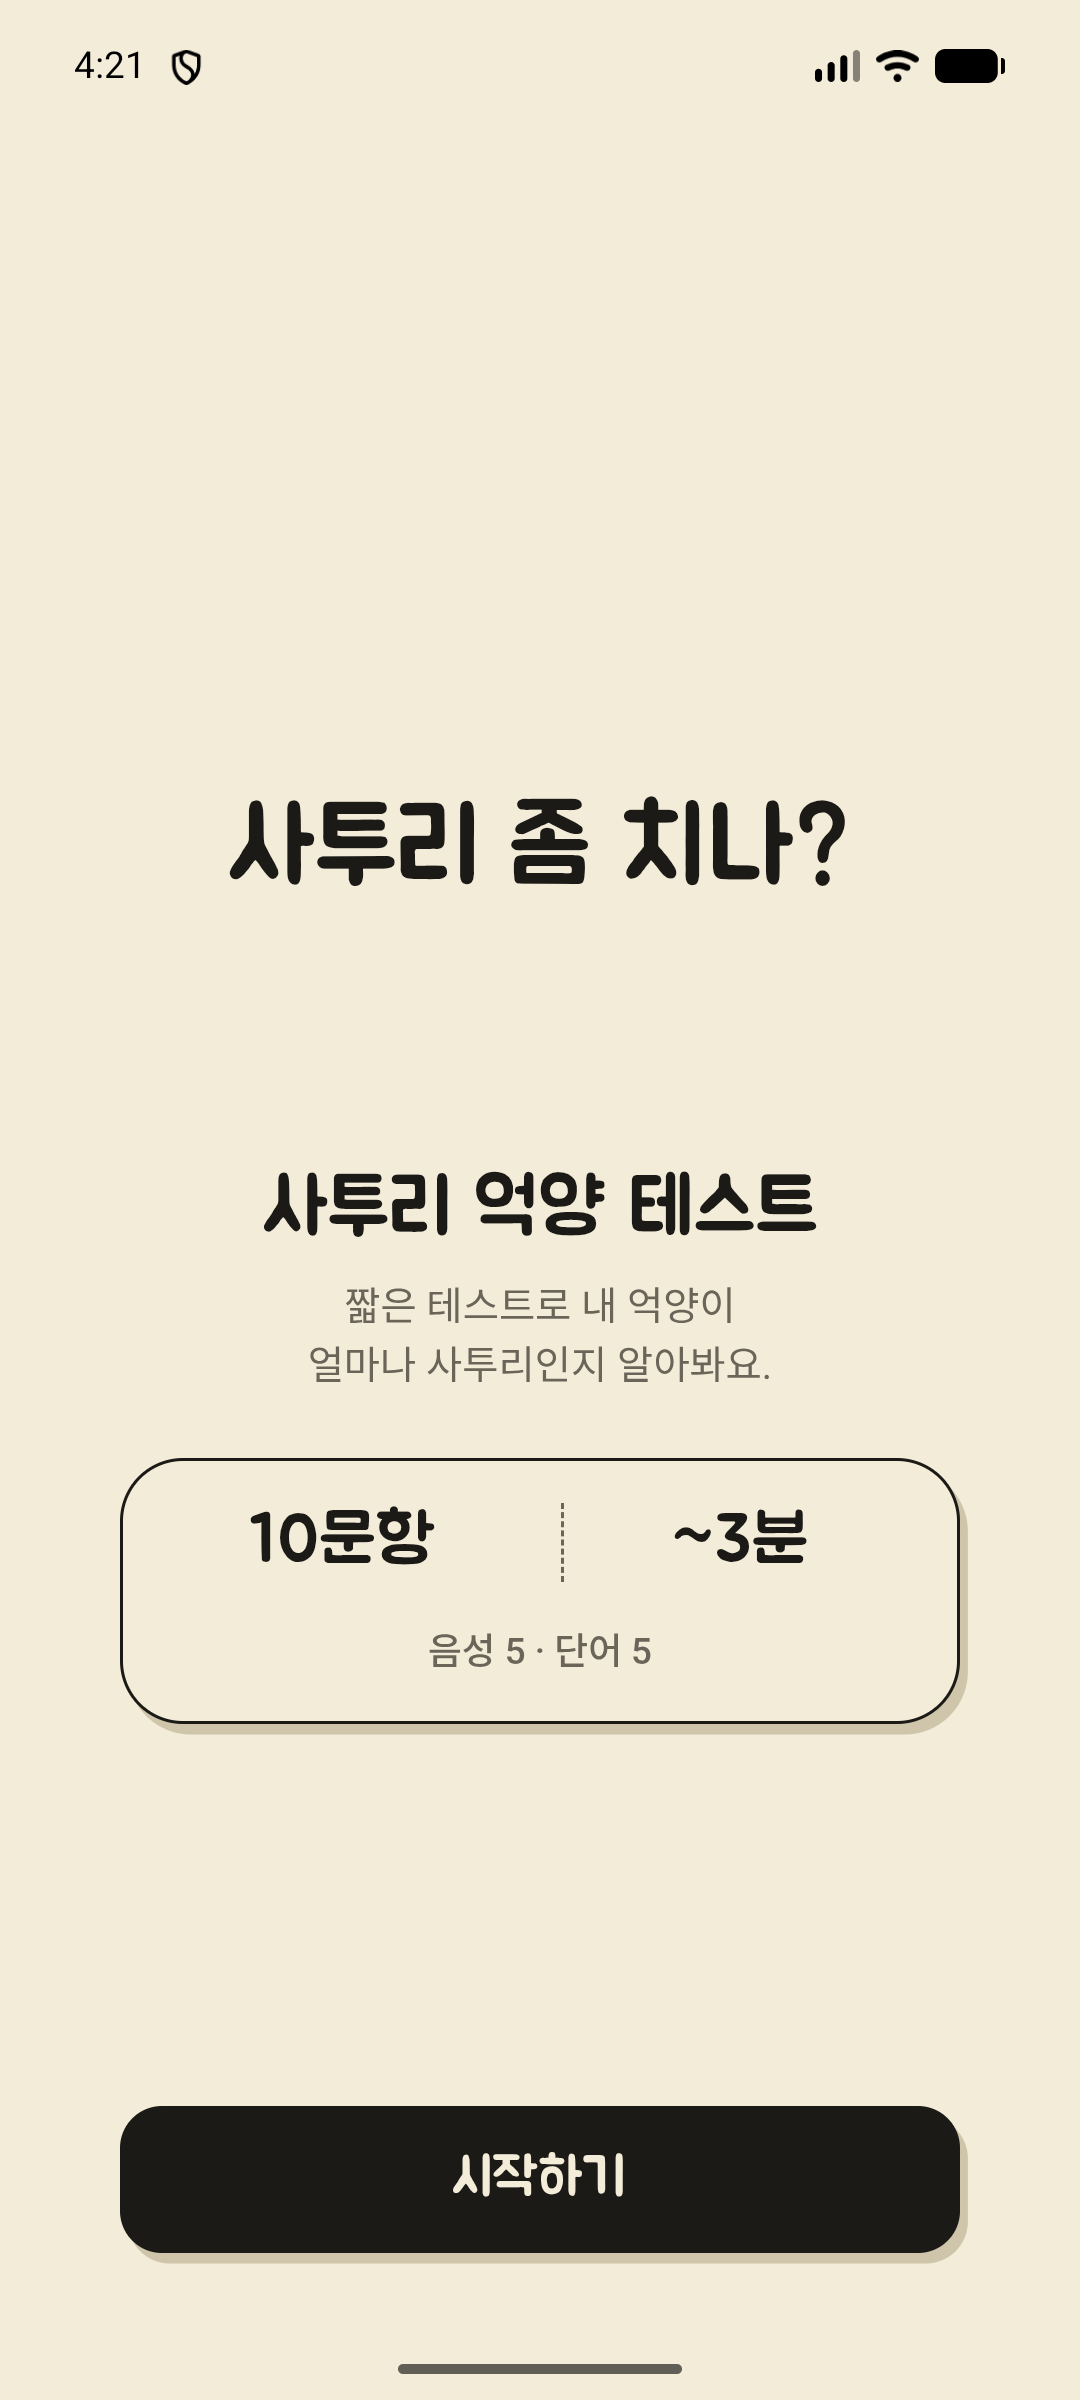
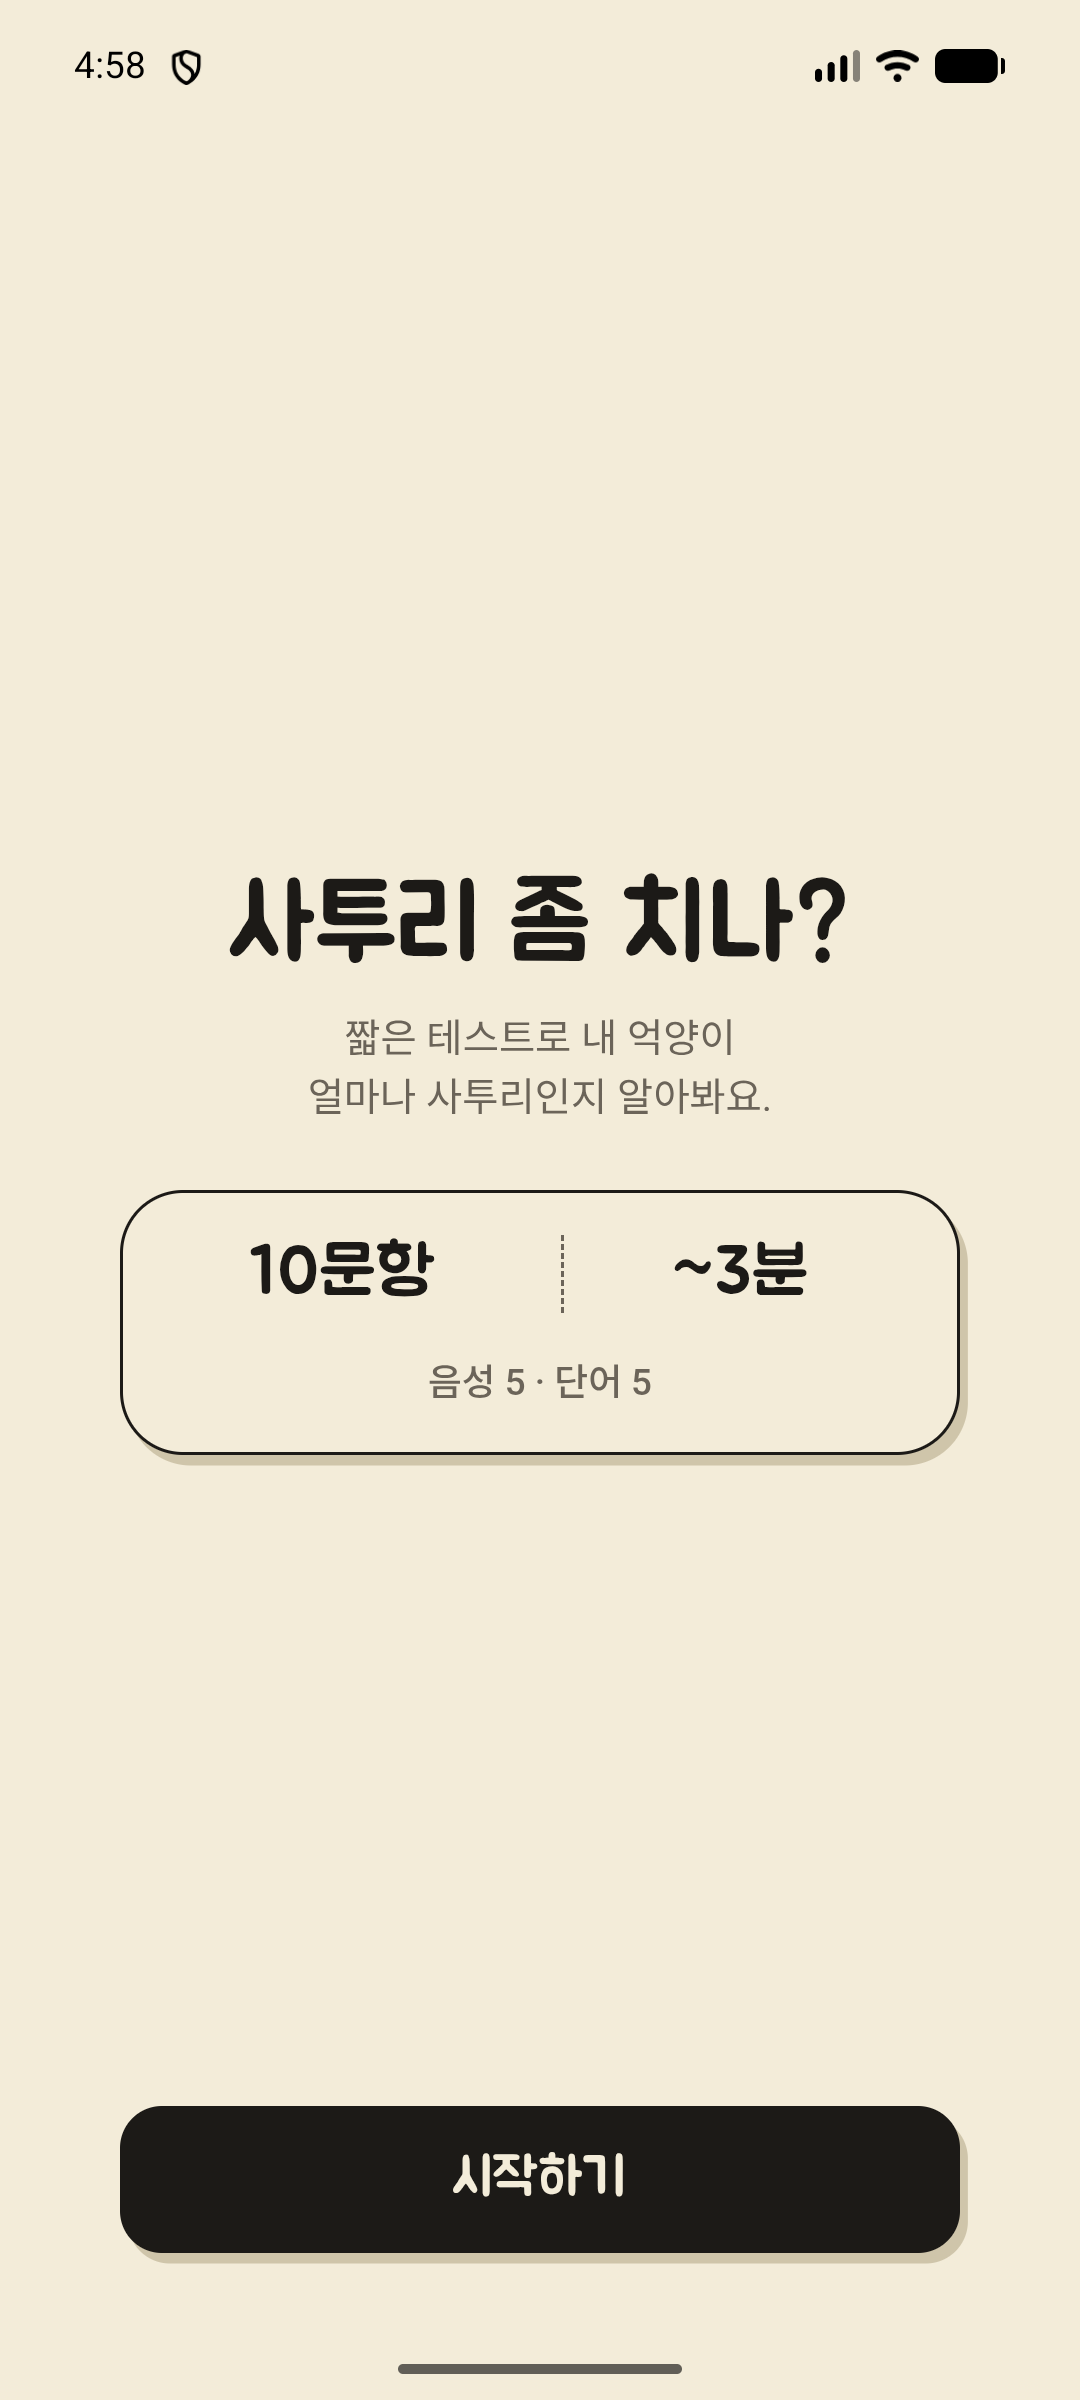
KAN-178 인트로에서 중복 제목 제거 - 텍스트 히어로가 h1 역할을 넘겨받음
- "사투리 억양 테스트" h1 삭제, TextHero에 heading 옵션 추가(인트로만 h1, 대기 화면은 기존대로 aria-hidden)
- 인트로 원본 캡처(Android·iOS) 재촬영, 프레임 재생성

Claude-Session: https://claude.ai/code/session_01Nud2Q8pYYmbEKkf6aeyY5Q

diff --git a/web/src/ui/components.css b/web/src/ui/components.css
@@ -288,18 +288,15 @@
  * 주므로 값은 화면이 변수로 넘긴다. 높이를 미리 잡아 두면 안엣것이 그려지기 전후로 아래
  * 요소가 오르내리지 않는다.
  *
- * 인트로·대기 화면은 그림 대신 `.text-hero`가 든다 (KAN-178). 슬롯 높이를 건드리지 않은
- * 것은 의도다 — 글자 한 줄이 그림보다 낮아도 아래 제목·카드는 있던 자리에 그대로 남는다.
+ * 대기 화면은 그림 대신 `.text-hero`가 든다 (KAN-178). 슬롯 높이를 건드리지 않은 것은
+ * 의도다 — 글자 한 줄이 그림보다 낮아도 아래 제목·카드는 있던 자리에 그대로 남는다.
+ * 인트로 슬롯(192)은 사라졌다: 제목을 걷어내면서 히어로를 슬롯 밖으로 꺼냈다 (`.intro-hero`).
  */
 .illustration {
   display: flex;
   align-items: center;
   justify-content: center;
   flex-shrink: 0;
-}
-
-.illustration--intro {
-  height: 192px;
 }
 
 .illustration--waiting {
@@ -311,8 +308,8 @@
  * 크림 면·오프셋 그림자)에 얹었는데, 한 화면에 종이가 두 장 겹쳐 보였다 — 바로 아래 대사
  * 카드와 같은 두께라 히어로가 카드의 예고편처럼 읽혔다. 면을 걷어내고 잉크 글자만 남긴다.
  *
- * Jua 40(`--text-display`)은 팔레트에서 가장 큰 글자다. 바로 아래 제목이 30·26이라
- * 이보다 작으면 히어로가 아니라 제목이 둘인 화면이 된다.
+ * Jua 40(`--text-display`)은 팔레트에서 가장 큰 글자다. 대기 화면은 바로 아래 제목이
+ * 30·26이라 이보다 작으면 히어로가 아니라 제목이 둘인 화면이 된다.
  *
  * `keep-all`은 한국어에서 필수다 — 기본값이면 낱말 가운데서 잘린다. `balance`는 두 줄로
  * 넘어갈 때 줄 길이를 맞춘다. 지원하지 않는 브라우저는 평범하게 흘려 담을 뿐이라 깨지지
@@ -329,6 +326,29 @@
   text-align: center;
   word-break: keep-all;
   text-wrap: balance;
+}
+
+/*
+ * 인트로의 히어로 + 부제 (KAN-178). 중복이던 제목("사투리 억양 테스트")을 걷어내면서
+ * 히어로가 이 화면의 h1이 됐고, 그러면 부제는 제목에 딸린 줄이라 **한 덩어리로 읽혀야 한다**.
+ *
+ * 그래서 인트로에서는 히어로를 192px 슬롯 밖으로 꺼냈다(대기 화면은 `.illustration--waiting`에
+ * 그대로 둔다). 슬롯은 그림이 뜨기 전후로 아래가 오르내리지 않게 높이를 미리 잡아 두는
+ * 자리인데, 글자에는 늦게 도착할 것이 없어 잡아 둘 이유가 사라졌다. 남는 것은 40px 글자를 192px 안에 가운데 세우고 생기는
+ * 위아래 ~73px의 빈 자리뿐이고, 제목이 있던 때는 그 여백이 "히어로 밴드 / 제목 블록"의
+ * 경계로 읽혔지만 지금은 제목과 부제 사이를 벌려 놓아 부제가 카드 쪽에 붙어 보인다.
+ *
+ * 간격은 걷어낸 제목이 부제와 두던 8px 그대로다. 히어로가 30px 제목보다 크니 사이도
+ * 넓혀야 할 것 같지만, 12px로 벌려 보니 부제가 카드 쪽으로 붙어 세 덩어리처럼 읽혔다 —
+ * 아래 카드와의 간격(`.screen__body`의 24px)이 위와 비슷해지는 순간 짝이 흐려진다.
+ * 8px이면 그 차이가 세 배라 "붙은 두 줄 + 떨어진 카드"로 한 번에 갈린다.
+ */
+.intro-hero {
+  display: flex;
+  flex-direction: column;
+  align-items: center;
+  gap: var(--space-2);
+  width: 100%;
 }
 
 /*

diff --git a/web/src/ui/TextHero.tsx b/web/src/ui/TextHero.tsx
@@ -6,21 +6,38 @@
  * 않았고, 스토어 스크린샷처럼 축소된 자리에서는 선이 뭉개져 무엇을 그린 것인지도 읽히지
  * 않았다 — 같은 자리에 큰 글자 한 줄을 세우면 화면을 열자마자 문장이 먼저 온다.
  *
- * `aria-hidden`이 기본인 이유는 IntroHero와 같다: 옆에 있는 h1이 이미 화면 이름을 말한다.
- * 그림이든 글자든 장식에 라벨이 붙으면 스크린 리더가 같은 화면을 두 번 소개한다.
+ * ## 장식이 기본이고 제목은 선택인 이유
+ *
+ * 두 화면이 히어로를 같은 자리에 세우지만 **접근성 트리에서 맡는 역할은 반대다**.
+ *
+ * - 분석 대기 화면(기본값): 아래 h1이 진행 상태("분석 중입니다 · N%")를 실어 나른다.
+ *   상태가 바뀔 때마다 갱신되는 그 제목이 화면 이름이라, 히어로까지 라벨을 가지면
+ *   스크린 리더가 같은 화면을 두 번 소개한다 — 그래서 `<p aria-hidden>`으로 남긴다.
+ * - 인트로 화면(`heading`): 중복이던 h1("사투리 억양 테스트")을 걷어냈다. 이제 화면
+ *   이름을 말하는 것이 히어로 문구뿐이므로 `<h1>`으로 서야 한다. 여기서 `aria-hidden`을
+ *   달아 두면 인트로에 제목이 하나도 남지 않아 접근 가능한 이름을 잃는다.
+ *
+ * 두 갈래를 boolean 하나로 가른 것은 의도다 — `aria-hidden`과 태그를 따로 받으면
+ * "h1인데 숨겨진 히어로" 같은 조합이 만들어지고, 그게 정확히 막으려는 상태다.
  */
 
 import type { ReactNode } from 'react'
 
 export interface TextHeroProps {
   children: ReactNode
-  /** 이 문구를 대신 읽어 줄 제목이 옆에 없을 때만 false로 준다 */
-  'aria-hidden'?: boolean
+  /**
+   * 이 문구가 곧 화면 이름일 때만 true — `<h1>`으로 서고 `aria-hidden`이 걷힌다.
+   * 기본값(false)은 장식이라는 뜻이고, 화면 이름을 말할 제목이 따로 있다는 전제가 붙는다.
+   */
+  heading?: boolean
 }
 
-export function TextHero({ children, 'aria-hidden': ariaHidden = true }: TextHeroProps) {
+export function TextHero({ children, heading = false }: TextHeroProps) {
+  if (heading) {
+    return <h1 className="text-hero">{children}</h1>
+  }
   return (
-    <p className="text-hero" aria-hidden={ariaHidden}>
+    <p className="text-hero" aria-hidden>
       {children}
     </p>
   )

diff --git a/web/src/intro/IntroScreen.tsx b/web/src/intro/IntroScreen.tsx
@@ -112,13 +112,17 @@ export function IntroScreen({
           종이 일러스트(확성기를 든 사람)를 걷어내고 글자를 세웠다 (KAN-178). 그림은 이 앱이
           무엇을 하는 곳인지 말하지 않았다 — 첫 화면은 사용자에게 말을 걸어야 하고, 그건
           그리는 것보다 적는 편이 빠르다.
-        */}
-        <div className="illustration illustration--intro">
-          <TextHero>사투리 좀 치나?</TextHero>
-        </div>
 
-        <div style={{ display: 'flex', flexDirection: 'column', gap: 'var(--space-2)' }}>
-          <h1 className="type-title">사투리 억양 테스트</h1>
+          히어로가 이 화면의 h1이다. 아래에 있던 제목("사투리 억양 테스트")을 걷어냈다 —
+          큰 글자로 말을 건 바로 밑에서 같은 말을 정색하고 되풀이하는 꼴이었고, 사용자가
+          그 두 줄에서 새로 얻는 정보가 없었다. 화면 이름을 말하는 것이 히어로 하나뿐이므로
+          `heading`으로 세운다 (`TextHero` 주석 참고).
+
+          제목이 빠진 만큼 히어로를 192px 슬롯에서 꺼내 부제와 한 덩어리로 묶었다 —
+          근거는 `.intro-hero` 주석에 적었다.
+        */}
+        <div className="intro-hero">
+          <TextHero heading>사투리 좀 치나?</TextHero>
           <p className="type-body-sm" style={{ color: 'var(--color-muted-foreground)' }}>
             짧은 테스트로 내 억양이
             <br />

diff --git a/web/src/App.test.tsx b/web/src/App.test.tsx
@@ -154,7 +154,8 @@ describe('App — 스큐 판정 분기', () => {
   it('호환 버전이면 인트로가 뜨고 문항 구성·예상 시간이 정확히 표시된다 (AC 1)', () => {
     setSearch(`?bridge=${REQUIRED_BRIDGE_VERSION}&app=1.0`)
     render(<App />)
-    expect(screen.getByText('사투리 억양 테스트')).toBeInTheDocument()
+    // 인트로의 h1은 텍스트 히어로다 (KAN-178) — 같은 말을 되풀이하던 제목을 걷어냈다
+    expect(screen.getByRole('heading', { level: 1, name: '사투리 좀 치나?' })).toBeInTheDocument()
     // KAN-148에서 한 문장이던 표기가 숫자 칸으로 갈렸다 - 확인하는 값은 그대로다
     expect(screen.getByText('10문항')).toBeInTheDocument()
     expect(screen.getByText('~3분')).toBeInTheDocument()
@@ -345,7 +346,7 @@ describe('App — 웹 단독 실행 (KAN-31)', () => {
 
     // 네이티브 권한 게이트가 받았으므로 웹은 여기서 손을 뗀다 — 화면 전체를 앱이 갈아치운다
     expect(screen.queryByText('목소리를 확인할게요')).not.toBeInTheDocument()
-    expect(screen.getByText('사투리 억양 테스트')).toBeInTheDocument()
+    expect(screen.getByRole('heading', { level: 1, name: '사투리 좀 치나?' })).toBeInTheDocument()
   })
 
   it('[시작하기]가 공유 링크의 유입 코드를 실어 세션을 만들고 문항 화면으로 넘긴다', async () => {

diff --git a/web/src/intro/IntroScreen.test.tsx b/web/src/intro/IntroScreen.test.tsx
@@ -126,11 +126,14 @@ describe('IntroScreen — 마이크 게이트 (KAN-56)', () => {
 })
 
 describe('IntroScreen — 텍스트 히어로 (KAN-178)', () => {
-  it('그림 대신 "사투리 좀 치나?"가 서고, 제목은 그대로 남는다', () => {
+  it('히어로 문구가 이 화면의 h1이고, 중복이던 제목은 걷혔다', () => {
     render(<IntroScreen requestWebPermission={permissionStub('granted')} />)
 
-    expect(screen.getByText('사투리 좀 치나?')).toBeInTheDocument()
-    // 히어로는 장식이라 제목을 대신하지 않는다 — 화면 이름은 여전히 h1이 말한다
-    expect(screen.getByRole('heading', { level: 1, name: '사투리 억양 테스트' })).toBeInTheDocument()
+    // 화면 이름을 말하는 것이 히어로뿐이라 장식으로 두면 인트로가 접근 가능한 이름을 잃는다
+    expect(screen.getByRole('heading', { level: 1, name: '사투리 좀 치나?' })).toBeInTheDocument()
+    // 히어로 바로 밑에서 같은 말을 되풀이하던 제목이다
+    expect(screen.queryByText('사투리 억양 테스트')).not.toBeInTheDocument()
+    // 제목 자리를 넘겨받은 것이지 하나 더 생긴 것이 아니다 — h1은 여전히 하나다
+    expect(screen.getAllByRole('heading', { level: 1 })).toHaveLength(1)
   })
 })

diff --git a/web/src/analysis/AnalysisWaitingScreen.test.tsx b/web/src/analysis/AnalysisWaitingScreen.test.tsx
@@ -531,7 +531,8 @@ describe('텍스트 히어로 (KAN-178)', () => {
       fetchImpl: fetchFor({ analyses: () => jsonResponse(200, statusesBody(Array(5).fill('PROCESSING'))) }),
     })
 
-    expect(screen.getByText('분석 중입니다')).toBeInTheDocument()
+    // 인트로와 달리 여기서는 히어로가 장식이다 (KAN-178) — 상태를 실어 나르는 h1이 아래에 있다
+    expect(screen.getByText('분석 중입니다')).toHaveAttribute('aria-hidden', 'true')
     // 히어로는 "분석 중" 한 상태를 붙박이로 말하고, 제목은 그 안에서 무엇이 진행 중인지를 말한다
     expect(screen.getByRole('heading', { level: 1, name: '결과를 만들고 있어요' })).toBeInTheDocument()
   })

diff --git a/docs/wiki/app-icon-assets.md b/docs/wiki/app-icon-assets.md
@@ -223,6 +223,7 @@ xcrun simctl io booted screenshot assets/screenshots/raw/ios/01-intro.png
 - **인트로·분석 대기 화면의 일러스트를 텍스트 히어로로 갈았다** (2026-09-03) — 오려 낸 종이 그림(확성기 든 사람·계단)이 스토어 캡처 크기로 줄면 선이 뭉개져 무엇을 그린 것인지 읽히지 않았고, 읽히더라도 앱이 무엇을 하는 곳인지는 말하지 않았다. 같은 자리에 Jua 40 잉크 한 줄을 세운다 — 인트로는 `사투리 좀 치나?`, 대기 화면은 `분석 중입니다`. 슬롯 높이(192·176)는 그대로라 아래 요소는 움직이지 않고, `raw/{android,ios}/01-intro.png`를 다시 찍어 프레임을 재생성했다.
 - **텍스트 히어로에서 종이 조각을 걷어냈다** (2026-09-03) — 히어로가 대사 카드와 같은 테두리·면·그림자를 쓰니 한 화면에 종이가 두 장 겹쳐, 히어로가 아래 카드의 예고편처럼 읽혔다. 면을 지우고 잉크 글자만 남긴다. 문구도 `니 사투리 몇 등급?`에서 `사투리 좀 치나?`로 바꿨다 — 등급을 먼저 말하는 대신 말을 건다.
 - **Play `01-intro` 캡션이 화면 문구와 겹치지 않게 갈았다** (2026-09-03) — 옛 캡션 `내 사투리, 몇 등급?`이 프레임 안 화면의 히어로와 같은 말을 두 번 했다. `3분이면 끝나는 사투리 테스트` / `음성 5 / 단어 5, 계정 없이`로 바꿔 캡션은 화면이 말하지 않는 것(길이·구성·가입 없음)만 말한다.
+- **인트로에서 중복 제목을 걷고 히어로에 h1을 넘겼다** (2026-09-03) — 히어로 `사투리 좀 치나?` 바로 아래에 제목 `사투리 억양 테스트`가 서서 같은 말을 두 번 했고, 사용자가 두 줄에서 새로 얻는 것이 없었다. 제목을 지우고 히어로를 이 화면의 h1으로 세운다(`TextHero`의 `heading`) — 화면 이름을 말하는 것이 히어로뿐이 되므로 `aria-hidden`을 그대로 두면 인트로가 접근 가능한 이름과 유일한 h1을 잃는다. 분석 대기 화면은 상태를 실어 나르는 h1이 아래에 따로 있어 기본값(장식)을 그대로 쓴다. 인트로만 192px 슬롯에서 히어로를 꺼내 부제와 8px로 묶었고, `raw/{android,ios}/01-intro.png`를 다시 찍어 프레임을 재생성했다.
 - **Jua에 없는 글자는 `build.py`가 막는다** (2026-09-03) — 새 캡션의 가운뎃점(U+00B7)이 Jua에 없어 두부(□)로 그려졌는데 검증 14개가 전부 통과했다. Pillow는 글리프가 없어도 조용히 그린다. `assert_glyphs()`가 캡션 글자를 cmap과 대조해 죽는다(fontTools가 없으면 건너뛴다). 구분자는 슬래시로 갈았다.
 
 ## 7. 이월

diff --git a/docs/wiki/design-tokens.md b/docs/wiki/design-tokens.md
@@ -524,14 +524,24 @@ KAN-148의 AC "텍스트 대비 4.5:1"은 이제 예외 없이 지켜진다.
 빌렸는데, 히어로 바로 아래에 같은 두께의 카드가 서니 한 화면에 종이가 두 장 겹쳐 보였다 —
 히어로가 카드의 예고편처럼 읽히는 자리다. 테두리·그림자·면을 다 걷고 잉크 글자만 남긴다.
 남긴 것은 좌우 여백(`space-6`)뿐이고, 긴 문구가 화면 가장자리에 붙지 않게 하는 몫이다.
-글자는 `font-display` `text-display`(40) 400이다: 바로 아래 제목이 30·26이라 이보다 작으면
-히어로가 아니라 제목이 둘인 화면이 된다.
+글자는 `font-display` `text-display`(40) 400이다: 대기 화면은 바로 아래 제목이 30·26이라
+이보다 작으면 히어로가 아니라 제목이 둘인 화면이 된다.
 
-기본값이 `aria-hidden`인 이유는 옆에 있는 h1이 이미 화면 이름을 말하기 때문이다. 장식에 라벨을
-붙이면 스크린 리더가 같은 화면을 두 번 소개한다.
+**접근성 트리에서 맡는 역할은 두 화면이 반대다.** 기본값은 `<p aria-hidden>`이고, 전제는
+화면 이름을 말하는 제목이 따로 있다는 것이다 — 분석 대기 화면이 그렇다. 그쪽 h1은 진행
+상태(`결과를 만들고 있어요` · 폴링 퍼센트)를 실어 나르므로 히어로까지 라벨을 가지면 스크린
+리더가 같은 화면을 두 번 소개한다.
 
-바깥 슬롯(`.illustration--intro` 192 · `--waiting` 176)의 높이는 건드리지 않았다. 글자 한 줄이
-그림보다 낮아도 아래 제목·카드는 있던 자리에 그대로 남는다.
+인트로는 `heading`을 준다. 히어로 밑에 있던 제목 `사투리 억양 테스트`가 같은 말을 되풀이해
+걷어냈고(KAN-178), 그러면 화면 이름을 말하는 것이 히어로뿐이라 `<h1>`으로 서야 한다 —
+`aria-hidden`을 그대로 두면 인트로가 접근 가능한 이름과 유일한 h1을 함께 잃는다. 두 갈래를
+태그와 `aria-hidden`으로 따로 받지 않고 boolean 하나로 가른 것은 "h1인데 숨겨진 히어로"라는
+조합을 못 만들게 하려는 것이다.
+
+바깥 슬롯(`.illustration--waiting` 176)의 높이는 건드리지 않았다. 글자 한 줄이 그림보다 낮아도
+아래 제목·카드는 있던 자리에 그대로 남는다. 인트로만 슬롯에서 히어로를 꺼내 부제와 8px로 묶은
+`.intro-hero`를 쓴다 — 제목이 빠진 지금 부제는 히어로에 딸린 줄이라 한 덩어리로 읽혀야 하는데,
+192px 안에 40px 글자를 가운데 세우면 아래로 ~73px이 깔려 부제가 도리어 카드 쪽에 붙어 보였다.
 
 ## 9. 접근성 최소선 검증
 
